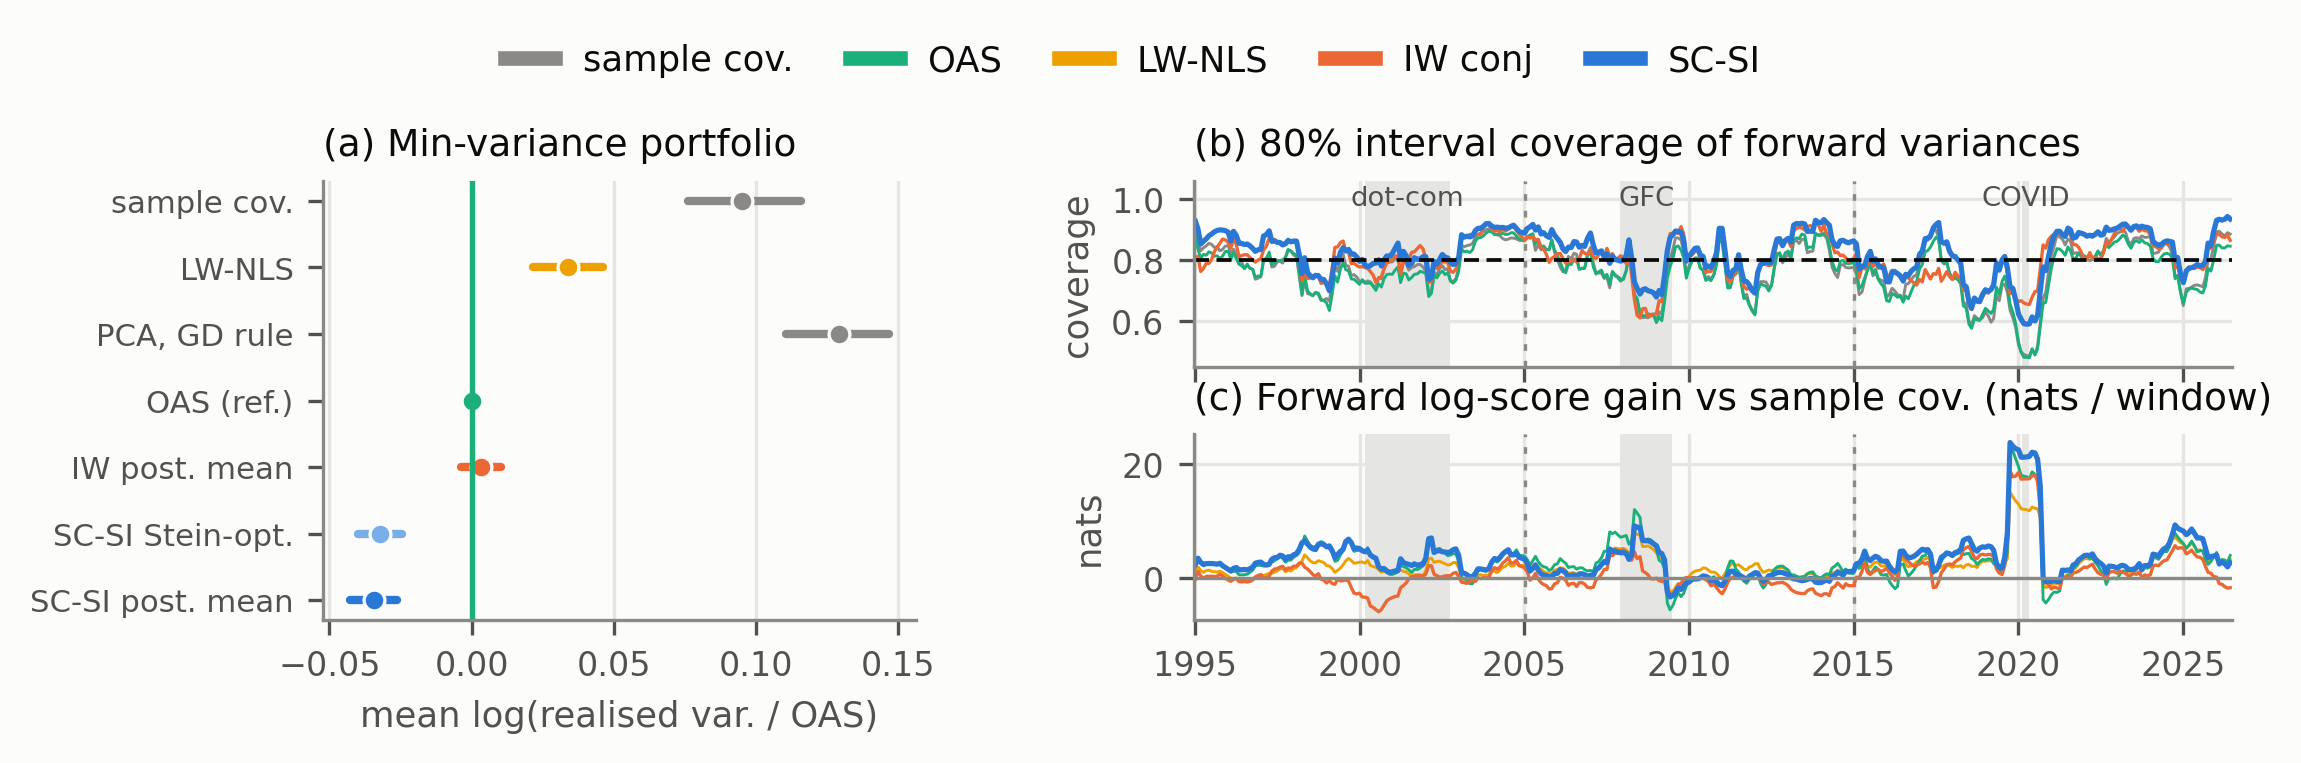
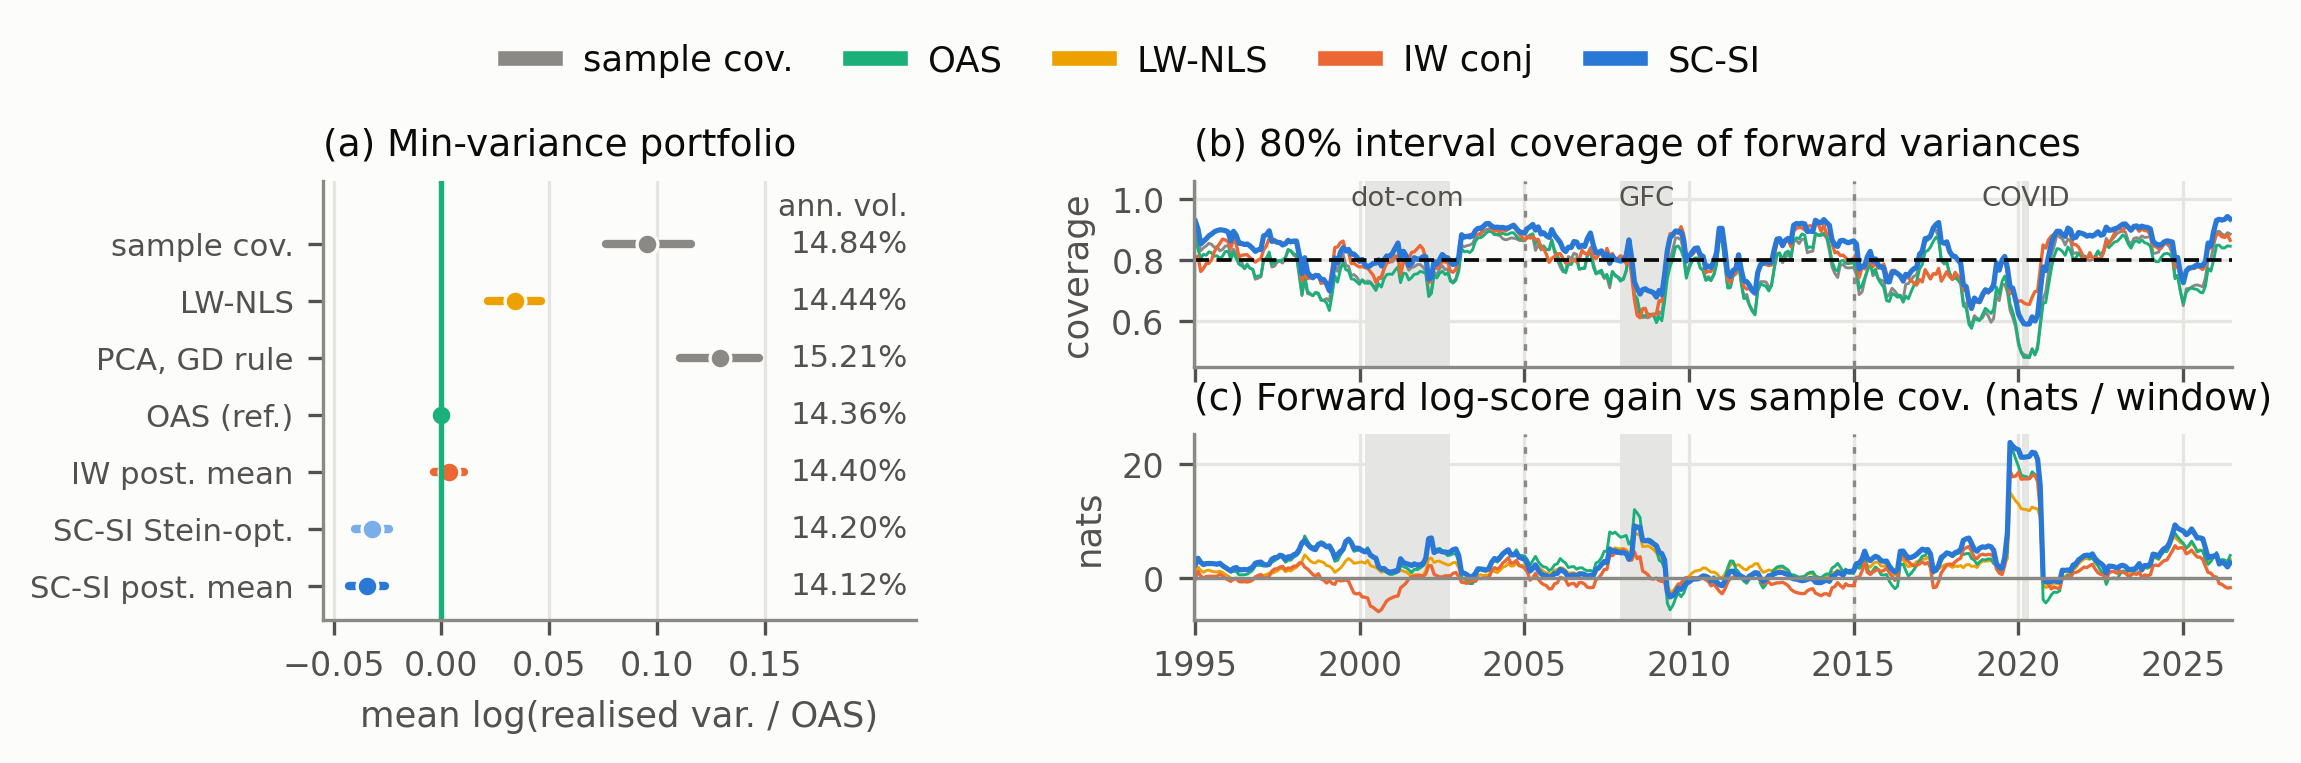
Finance figure: annualised realised volatility as an aligned right-hand column in panel (a)
A fixed column (with an 'ann. vol.' header) instead of labels next to each interval, which would collide with the
OAS reference line for the SC-SI rows. x-range extended to make room; caption explains the column.

diff --git a/paper/experiments.tex b/paper/experiments.tex
@@ -172,7 +172,7 @@ We made this choice after inspecting validation curves; Appendix~\ref{app:select
   \centering
   \includegraphics[width=\linewidth]{fig_real/fig_finance.png}
   \caption{\textbf{Financial returns, 1995--2026.}
-  (a)~Out-of-sample minimum-variance portfolio: mean log ratio of realised 21-day variance to OAS with 95\% month-block bootstrap intervals (left is lower risk; PCA: number of factors by the Gavish--Donoho threshold).
+  (a)~Out-of-sample minimum-variance portfolio: mean log ratio of realised 21-day variance to OAS with 95\% month-block bootstrap intervals (left is lower risk; PCA: number of factors by the Gavish--Donoho threshold); the right column gives the annualised realised volatility of the portfolio.
   (b)~12-month rolling coverage of the central 80\% forward interval for the variances of the 12 assets and the equal-weight portfolio.
   (c)~12-month rolling forward predictive log-score gain over the sample covariance.
   Shaded: dot-com bust, global financial crisis and COVID; dotted: model refits (2005, 2015).

diff --git a/experiments/paper_figs.py b/experiments/paper_figs.py
@@ -159,6 +159,10 @@ def fig_finance():
             m, lo, hi_ = res["mv"][n]["log_var_ratio_vs_OAS"]
             a0.plot([lo, hi_], [y, y], color=col[n], lw=2.0, solid_capstyle="round"); a0.plot(m, y, "o", color=col[n], ms=5, mec=SURFACE, mew=0.8)
         a0.axvline(0, color=AQUA, lw=1.3)
+        for y, n in zip(ys, order):                                              # annualised realised volatility of the portfolio, as an aligned column
+            a0.text(0.216, y, f"{res['mv'][n]['ann_vol']:.2f}%", ha="right", va="center", fontsize=7.4, color=INK2)
+        a0.text(0.216, len(order) - 0.35, "ann. vol.", ha="right", va="center", fontsize=7.2, color=INK2)
+        a0.set_xlim(-0.055, 0.22); a0.set_ylim(-0.6, len(order) + 0.1); a0.set_xticks([-0.05, 0, 0.05, 0.10, 0.15])
         a0.set_yticks(ys); a0.set_yticklabels([label[n] for n in order], fontsize=7.4); a0.grid(axis="y", visible=False)
         a0.set_xlabel("mean log(realised var. / OAS)"); a0.set_title("(a) Min-variance portfolio", loc="left")
         for a in (a1, a2):
